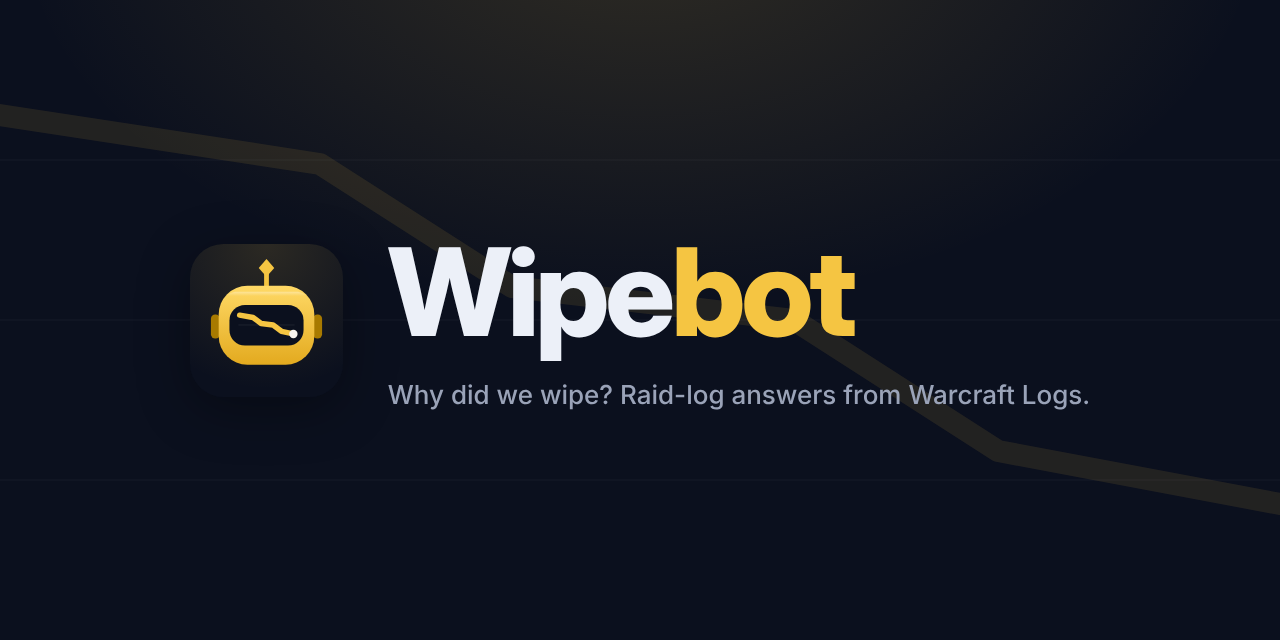
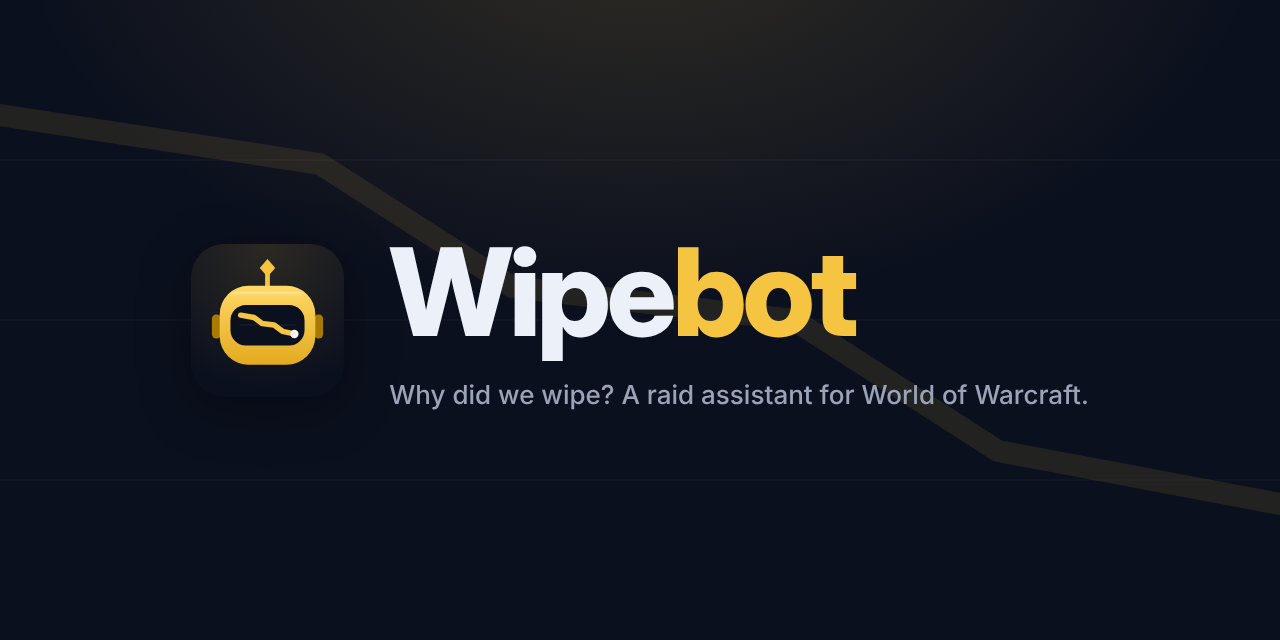
docs: Wipebot is called a raid assistant for World of Warcraft, not raid analysis from Warcraft Logs
"Raid analysis from Warcraft Logs" read as a tool Warcraft Logs supplies, and "AI raid coaching" as more than
it is. The README, the package's and the command line's descriptions, the changelog's first line, the plugin's
descriptions and the link-preview pictures (docs/brand) now say a raid assistant for World of Warcraft, and name
how a boss works beside the questions about a log. The plugin's version changes with its description.

diff --git a/src/wipebot/mcp/plugin.py b/src/wipebot/mcp/plugin.py
@@ -46,11 +46,11 @@ def _portable(name: str, guild: str, mcp_url: str, version: str) -> bytes:
     except metadata.PackageNotFoundError:
         release = "0.0.0"
     site = mcp_url.removesuffix("/mcp")
-    what = f"World of Warcraft raid analysis for {guild}, from Warcraft Logs"
+    what = f"A World of Warcraft raid assistant for {guild}"
     return _json({
         "$schema": f"{AGENT_PLUGINS}/plugin.schema.json", "name": _slug(name), "version": f"{release}+{version}",
-        "description": f"{what}: why a pull wiped, how a night went, how a player did, with the method for reading "
-                       "them.",
+        "description": f"{what}: why a pull wiped, how a night went, how a player did, how a boss works, with the "
+                       "method for reading a log.",
         "author": {"name": name, "url": site}, "homepage": site, "keywords": ["world-of-warcraft", "warcraft-logs",
                                                                            "raiding", "raid-analysis"],
         "extensions": {"com.openai": {"interface": {
@@ -86,9 +86,9 @@ def marketplace(name: str, guild: str, mcp_url: str, repo: str) -> dict[str, byt
     files = {f"plugins/{slug}/{path}": data for path, data in plugin_files(name, guild, mcp_url).items()}
     files[".claude-plugin/marketplace.json"] = (json.dumps({
         "name": slug, "owner": {"name": name, "url": mcp_url.removesuffix("/mcp")},
-        "metadata": {"description": f"{name}, World of Warcraft raid analysis for {guild}, as a Claude plugin."},
+        "metadata": {"description": f"{name}, a World of Warcraft raid assistant for {guild}, as a Claude plugin."},
         "plugins": [{"name": slug, "source": f"./plugins/{slug}",
-                     "description": f"World of Warcraft raid analysis for {guild}, from Warcraft Logs."}],
+                     "description": f"A World of Warcraft raid assistant for {guild}."}],
     }, indent=2) + "\n").encode()
     files[".agents/plugins/marketplace.json"] = _json({
         "name": slug, "interface": {"displayName": name},

diff --git a/src/wipebot/__main__.py b/src/wipebot/__main__.py
@@ -322,8 +322,8 @@ def _bot_commands(sub) -> None:
 
 
 def parser() -> argparse.ArgumentParser:
-    p = argparse.ArgumentParser(prog="wipebot", description="AI raid coaching for World of Warcraft.",
-                                epilog=__doc__, formatter_class=argparse.RawDescriptionHelpFormatter)
+    p = argparse.ArgumentParser(prog="wipebot", epilog=__doc__, formatter_class=argparse.RawDescriptionHelpFormatter,
+                                description="A raid assistant for World of Warcraft.")
     sub = p.add_subparsers(dest="cmd", required=True, metavar="COMMAND")
     _tool_commands(sub)
     _bot_commands(sub)

diff --git a/src/wipebot/__init__.py b/src/wipebot/__init__.py
@@ -1,3 +1,3 @@
-"""Wipebot: AI raid coaching for World of Warcraft, from Warcraft Logs. In layers: `core`, the analysis every app
-shares; `mcp` (Wipebot in Claude and ChatGPT) and `discord` (Wipebot in Discord), each built on core alone.
-`python -m wipebot` (__main__.py) is the command line."""
+"""Wipebot: a raid assistant for World of Warcraft, answering from Warcraft Logs reports, the game's guides and raid
+notes. In layers: `core`, the analysis every app shares; `mcp` (Wipebot in Claude and ChatGPT) and `discord` (Wipebot
+in Discord), each built on core alone. `python -m wipebot` (__main__.py) is the command line."""

diff --git a/README.md b/README.md
@@ -1,10 +1,11 @@
 <h1><img src="docs/brand/wipebot-icon.svg" width="44" height="44" alt="" align="top"> Wipebot</h1>
 
-Wipebot answers questions about a World of Warcraft® raid from its [Warcraft Logs](https://www.warcraftlogs.com)
-report: why a pull wiped, what killed you, what to change before the next one. Code works out the numbers from the
-log, and an AI model picks what to read and explains it. Ask in Claude, ChatGPT or another assistant that takes MCP
-connectors, or in Discord, where it answers in the guild's channels and DMs and posts after each wipe. Use the free
-public copy, or run your own for your guild.
+Wipebot is a raid assistant for World of Warcraft®. Ask why a pull wiped, what killed you, what to change before the
+next one or how the next boss works, and it answers from the raid's [Warcraft Logs](https://www.warcraftlogs.com)
+report, the game's guides and the raid notes you give it. Code works out the numbers from the log, and an AI model
+picks what to read and explains it. Ask in Claude, ChatGPT or another assistant that takes MCP connectors, or in
+Discord, where it answers in the guild's channels and DMs and posts after each wipe. Use the free public copy, or
+run your own for your guild.
 
 ## Try it
 

diff --git a/CHANGELOG.md b/CHANGELOG.md
@@ -1,6 +1,6 @@
 # Changelog
 
-What's new in Wipebot, raid analysis from Warcraft Logs reports. Each change is tagged with where you'll notice it: `Agent` is the analysis itself, wherever you ask; `MCP` is Wipebot in Claude and ChatGPT; `Discord` is Wipebot in Discord.
+What's new in Wipebot, a raid assistant for World of Warcraft. Each change is tagged with where you'll notice it: `Agent` is the analysis itself, wherever you ask; `MCP` is Wipebot in Claude and ChatGPT; `Discord` is Wipebot in Discord.
 
 The format is based on [Keep a Changelog](https://keepachangelog.com/en/1.1.0/). Wipebot runs from its main branch: changes since the last version are under Unreleased. Versions before 0.1.0, the first public release, are one a day.
 

diff --git a/src/wipebot/mcp/claude_plugin/README.md b/src/wipebot/mcp/claude_plugin/README.md
@@ -1,8 +1,8 @@
 # {name}
 
-World of Warcraft raid analysis for {guild}, from the guild's Warcraft Logs reports. Ask why a pull wiped, how a raid
-night went, what keeps wiping the raid, or how a player did and why their damage or healing is low, and get an answer
-the way an experienced raid leader reads the log.
+A World of Warcraft raid assistant for {guild}. Ask why a pull wiped, how a raid night went, what keeps wiping the
+raid, how a player did and why their damage or healing is low, or how a boss works, and get an answer the way an
+experienced raid leader reads the log and the guides.
 
 The plugin has two parts:
 
